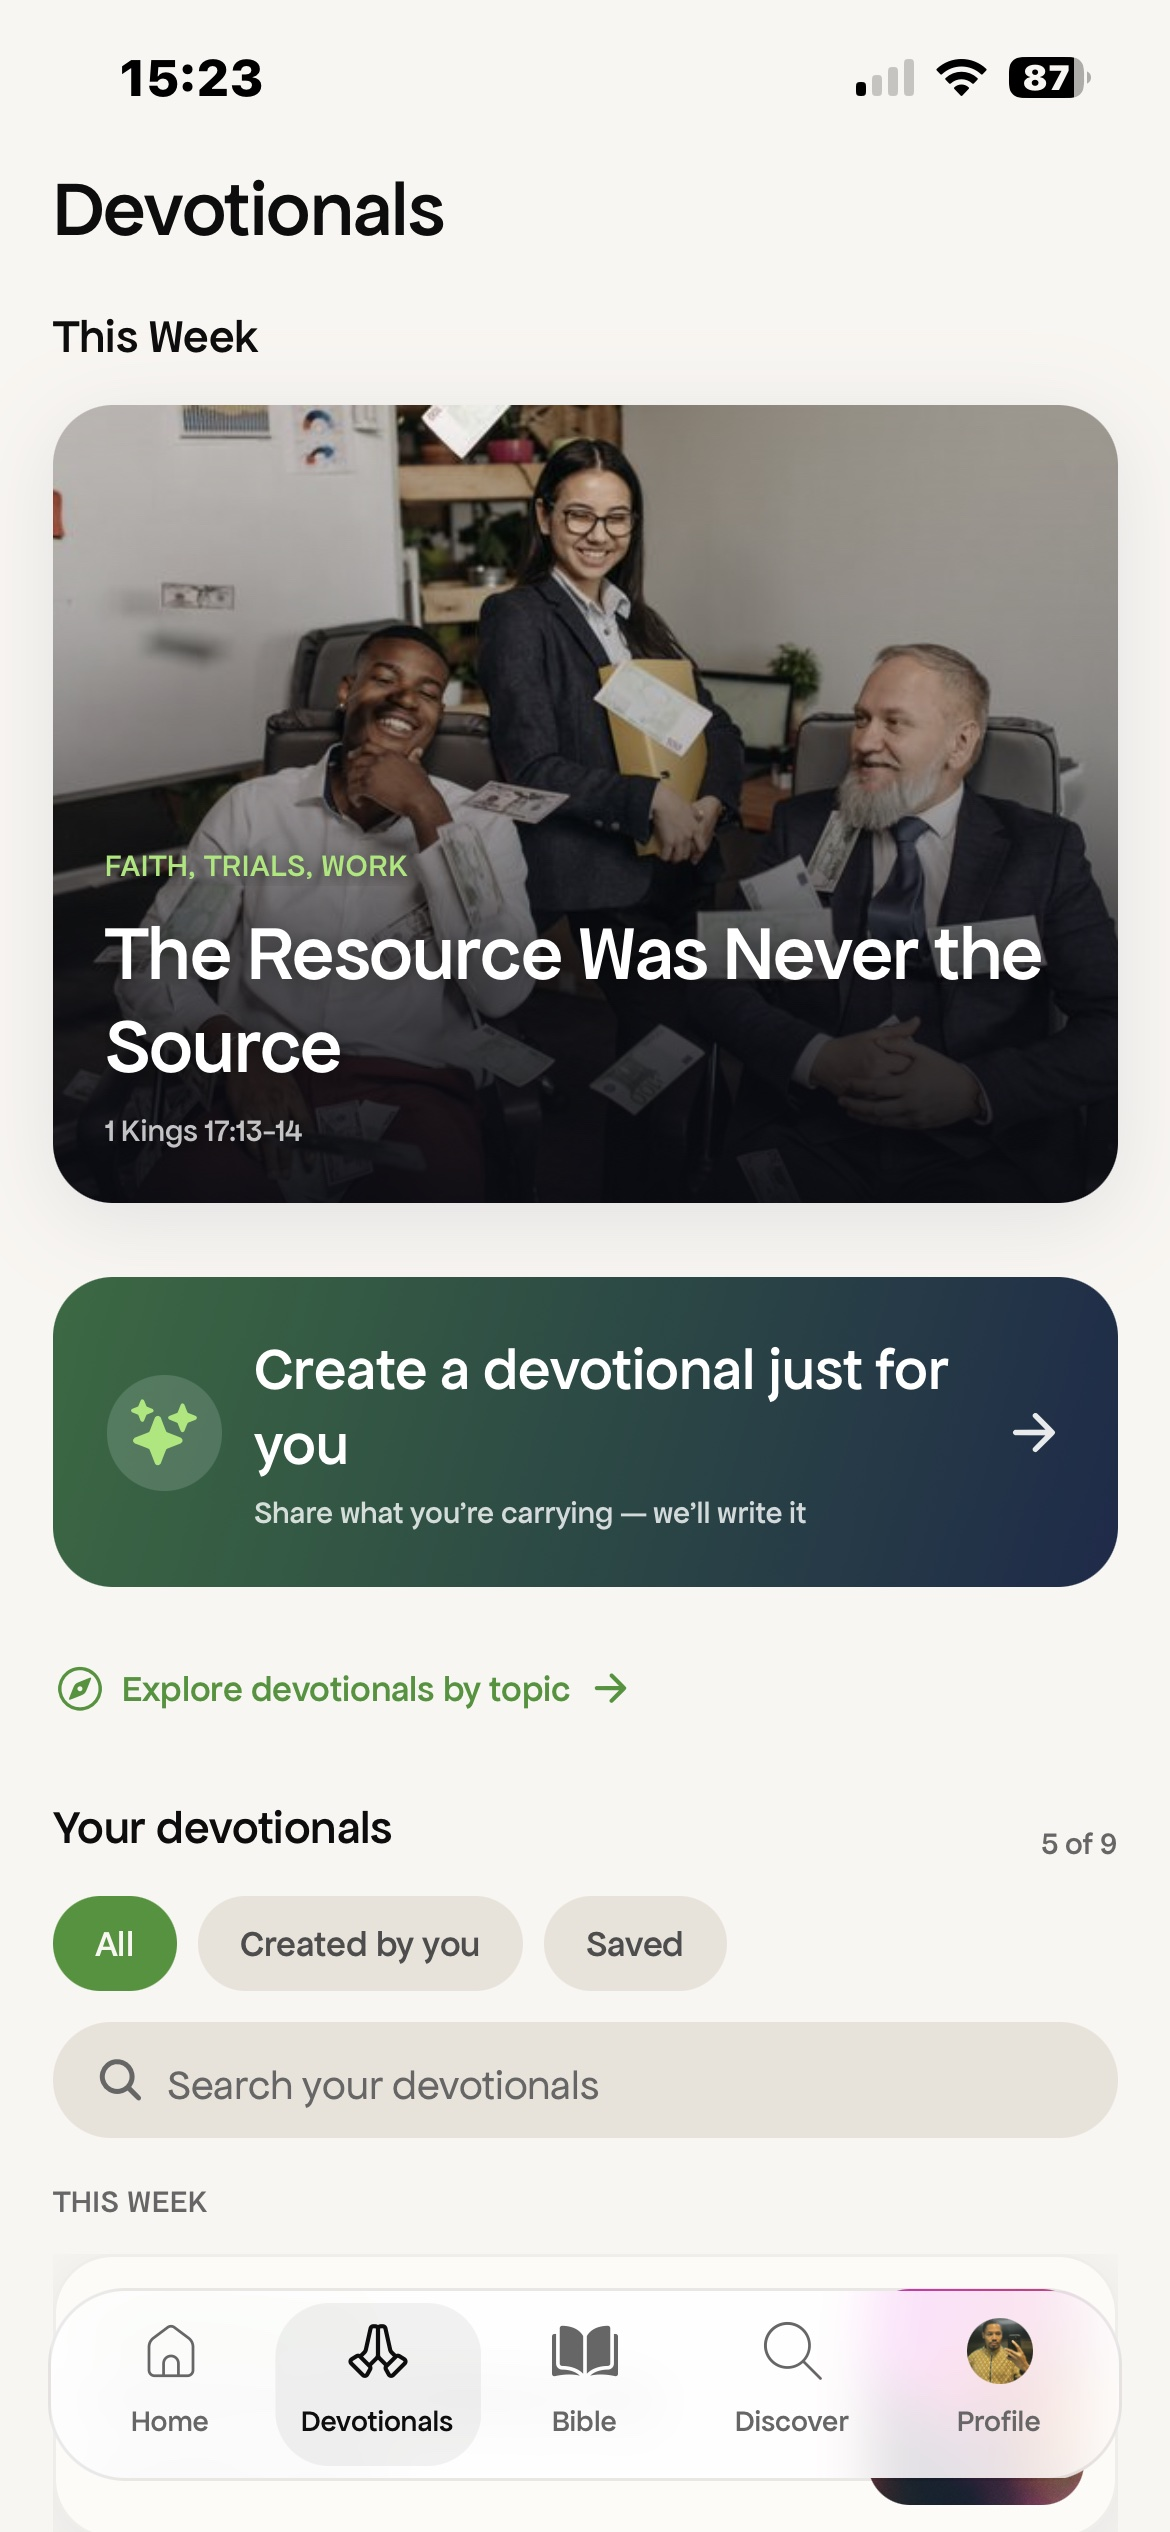
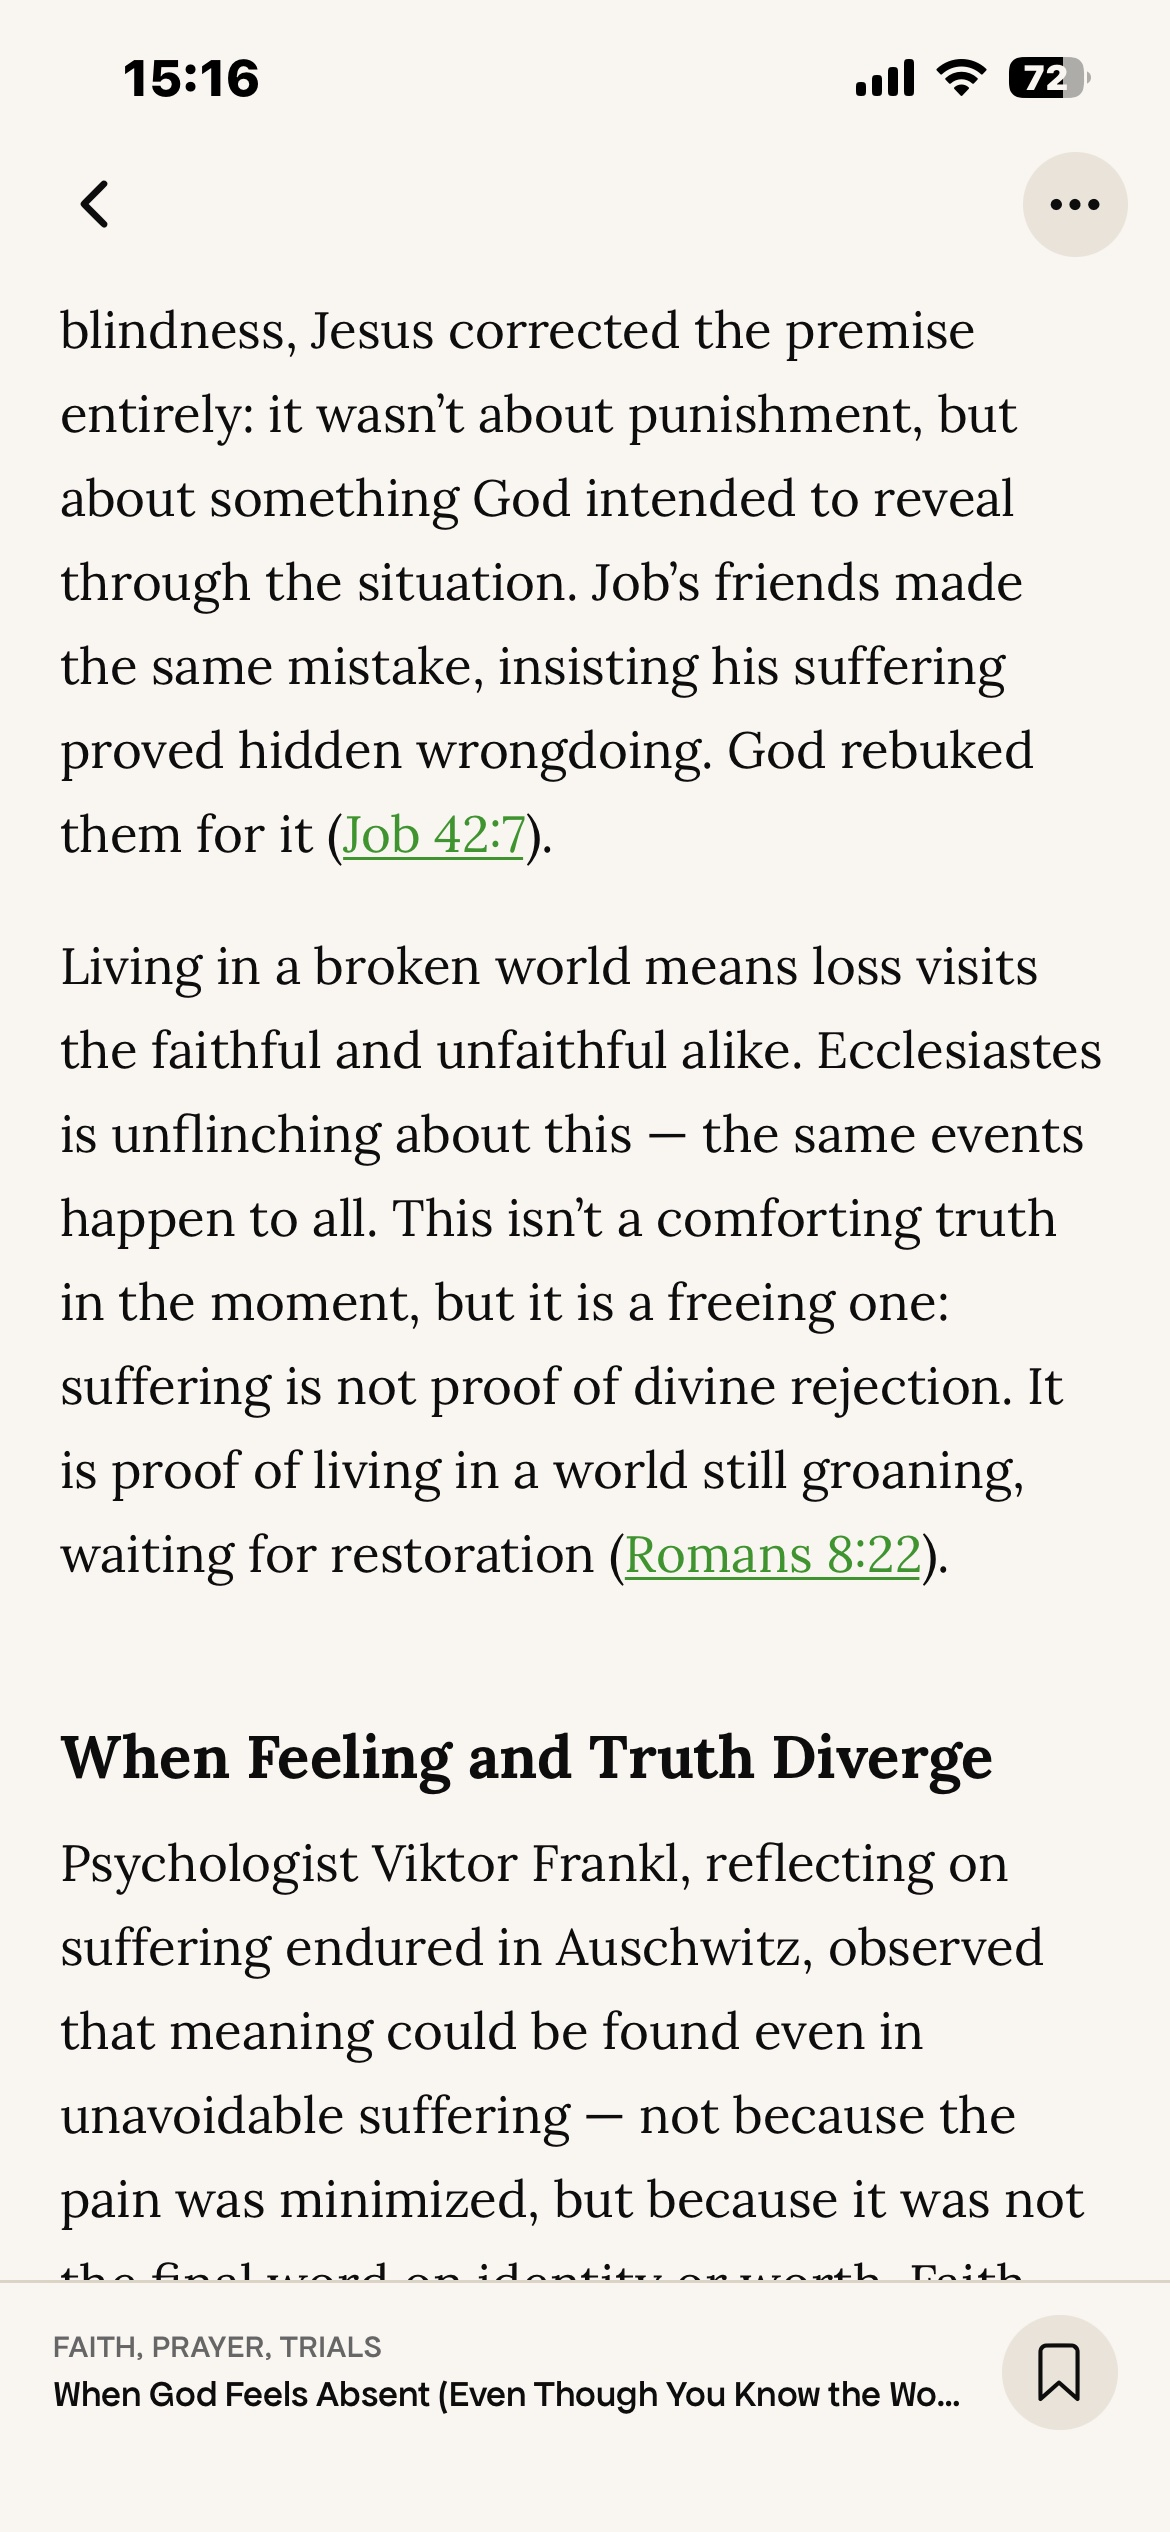
Link out to inspiritintruth.net from the app and giving pages
"Giving lives on the InSpiritInTruth website" was a dead end — it named
the destination without offering a way there. It now leads with a button
straight to the giving section.

The detail page gets the same treatment via an optional website field on
App: this page is the studio's account of the app, not its home, so it
should say where home is. Only ISIT carries one for now.

Also refreshes the first story beat's screenshot to the current build.

diff --git a/app/apps/inspiritintruth/giving/page.tsx b/app/apps/inspiritintruth/giving/page.tsx
@@ -1,6 +1,6 @@
 import type { Metadata } from "next";
 import Link from "next/link";
-import { ArrowLeft, ArrowRight, Sprout } from "lucide-react";
+import { ArrowLeft, ArrowRight, ArrowUpRight, Sprout } from "lucide-react";
 import { getApp } from "@/lib/apps";
 import AppThemeProvider from "@/components/apps/AppThemeProvider";
 import { HELLO_EMAIL, LEGAL_EMAIL } from "@/lib/contact";
@@ -153,9 +153,21 @@ export default function GivingPage() {
         {/* Footer actions */}
         <div className="mt-14 border-t border-border pt-8">
           <p className="text-muted">
-            Giving lives on the InSpiritInTruth website.
+            Giving lives on the InSpiritInTruth website — this page only
+            explains how it works.
           </p>
-          <div className="mt-4 flex flex-wrap items-center gap-x-6 gap-y-3">
+          <div className="mt-5 flex flex-wrap items-center gap-x-6 gap-y-3">
+            {/* The sentence above was a dead end without this: the whole point
+                is that the gift is made over there. */}
+            <a
+              href="https://inspiritintruth.net/#give"
+              target="_blank"
+              rel="noopener noreferrer"
+              className="inline-flex items-center gap-2 rounded-full bg-ink px-6 py-3 text-[0.9375rem] font-medium text-bg transition-all hover:-translate-y-0.5 hover:shadow-pill"
+            >
+              Give on inspiritintruth.net
+              <ArrowUpRight className="h-4 w-4" />
+            </a>
             <Link
               href="/apps/inspiritintruth/giving/faq"
               className="inline-flex items-center gap-2 text-[0.9375rem] font-medium text-ink transition-colors hover:text-accent-deep"

diff --git a/lib/apps.ts b/lib/apps.ts
@@ -107,6 +107,8 @@ export interface App {
   };
   /** Static screenshot imports; [0] is the detail-page hero. */
   screenshots: StaticImageData[];
+  /** The app's own site, when it has one — linked from the detail page. */
+  website?: { url: string; label: string };
   ctaLabel: string;
   ctaHref: string;
   /** Set when ctaHref points off-site (opens in a new tab). */
@@ -341,6 +343,7 @@ export const apps: App[] = [
       },
     },
     screenshots: [isitHome, isitDevotionals, isitPersonalise, isitBible, isitDiscover, isitProfile],
+    website: { url: "https://inspiritintruth.net/", label: "Visit inspiritintruth.net" },
     ctaLabel: "Join the Waitlist",
     ctaHref: "#",
     seo: {

diff --git a/components/apps/AppDetail.tsx b/components/apps/AppDetail.tsx
@@ -136,6 +136,18 @@ export default function AppDetail({ app }: { app: App }) {
               >
                 {app.ctaLabel}
               </PillButton>
+              {/* Apps with their own site say so here — this page is the
+                  studio's account of it, not its home. */}
+              {app.website && (
+                <PillButton
+                  href={app.website.url}
+                  external
+                  variant="ghost"
+                  size="lg"
+                >
+                  {app.website.label}
+                </PillButton>
+              )}
             </div>
           </div>
 
